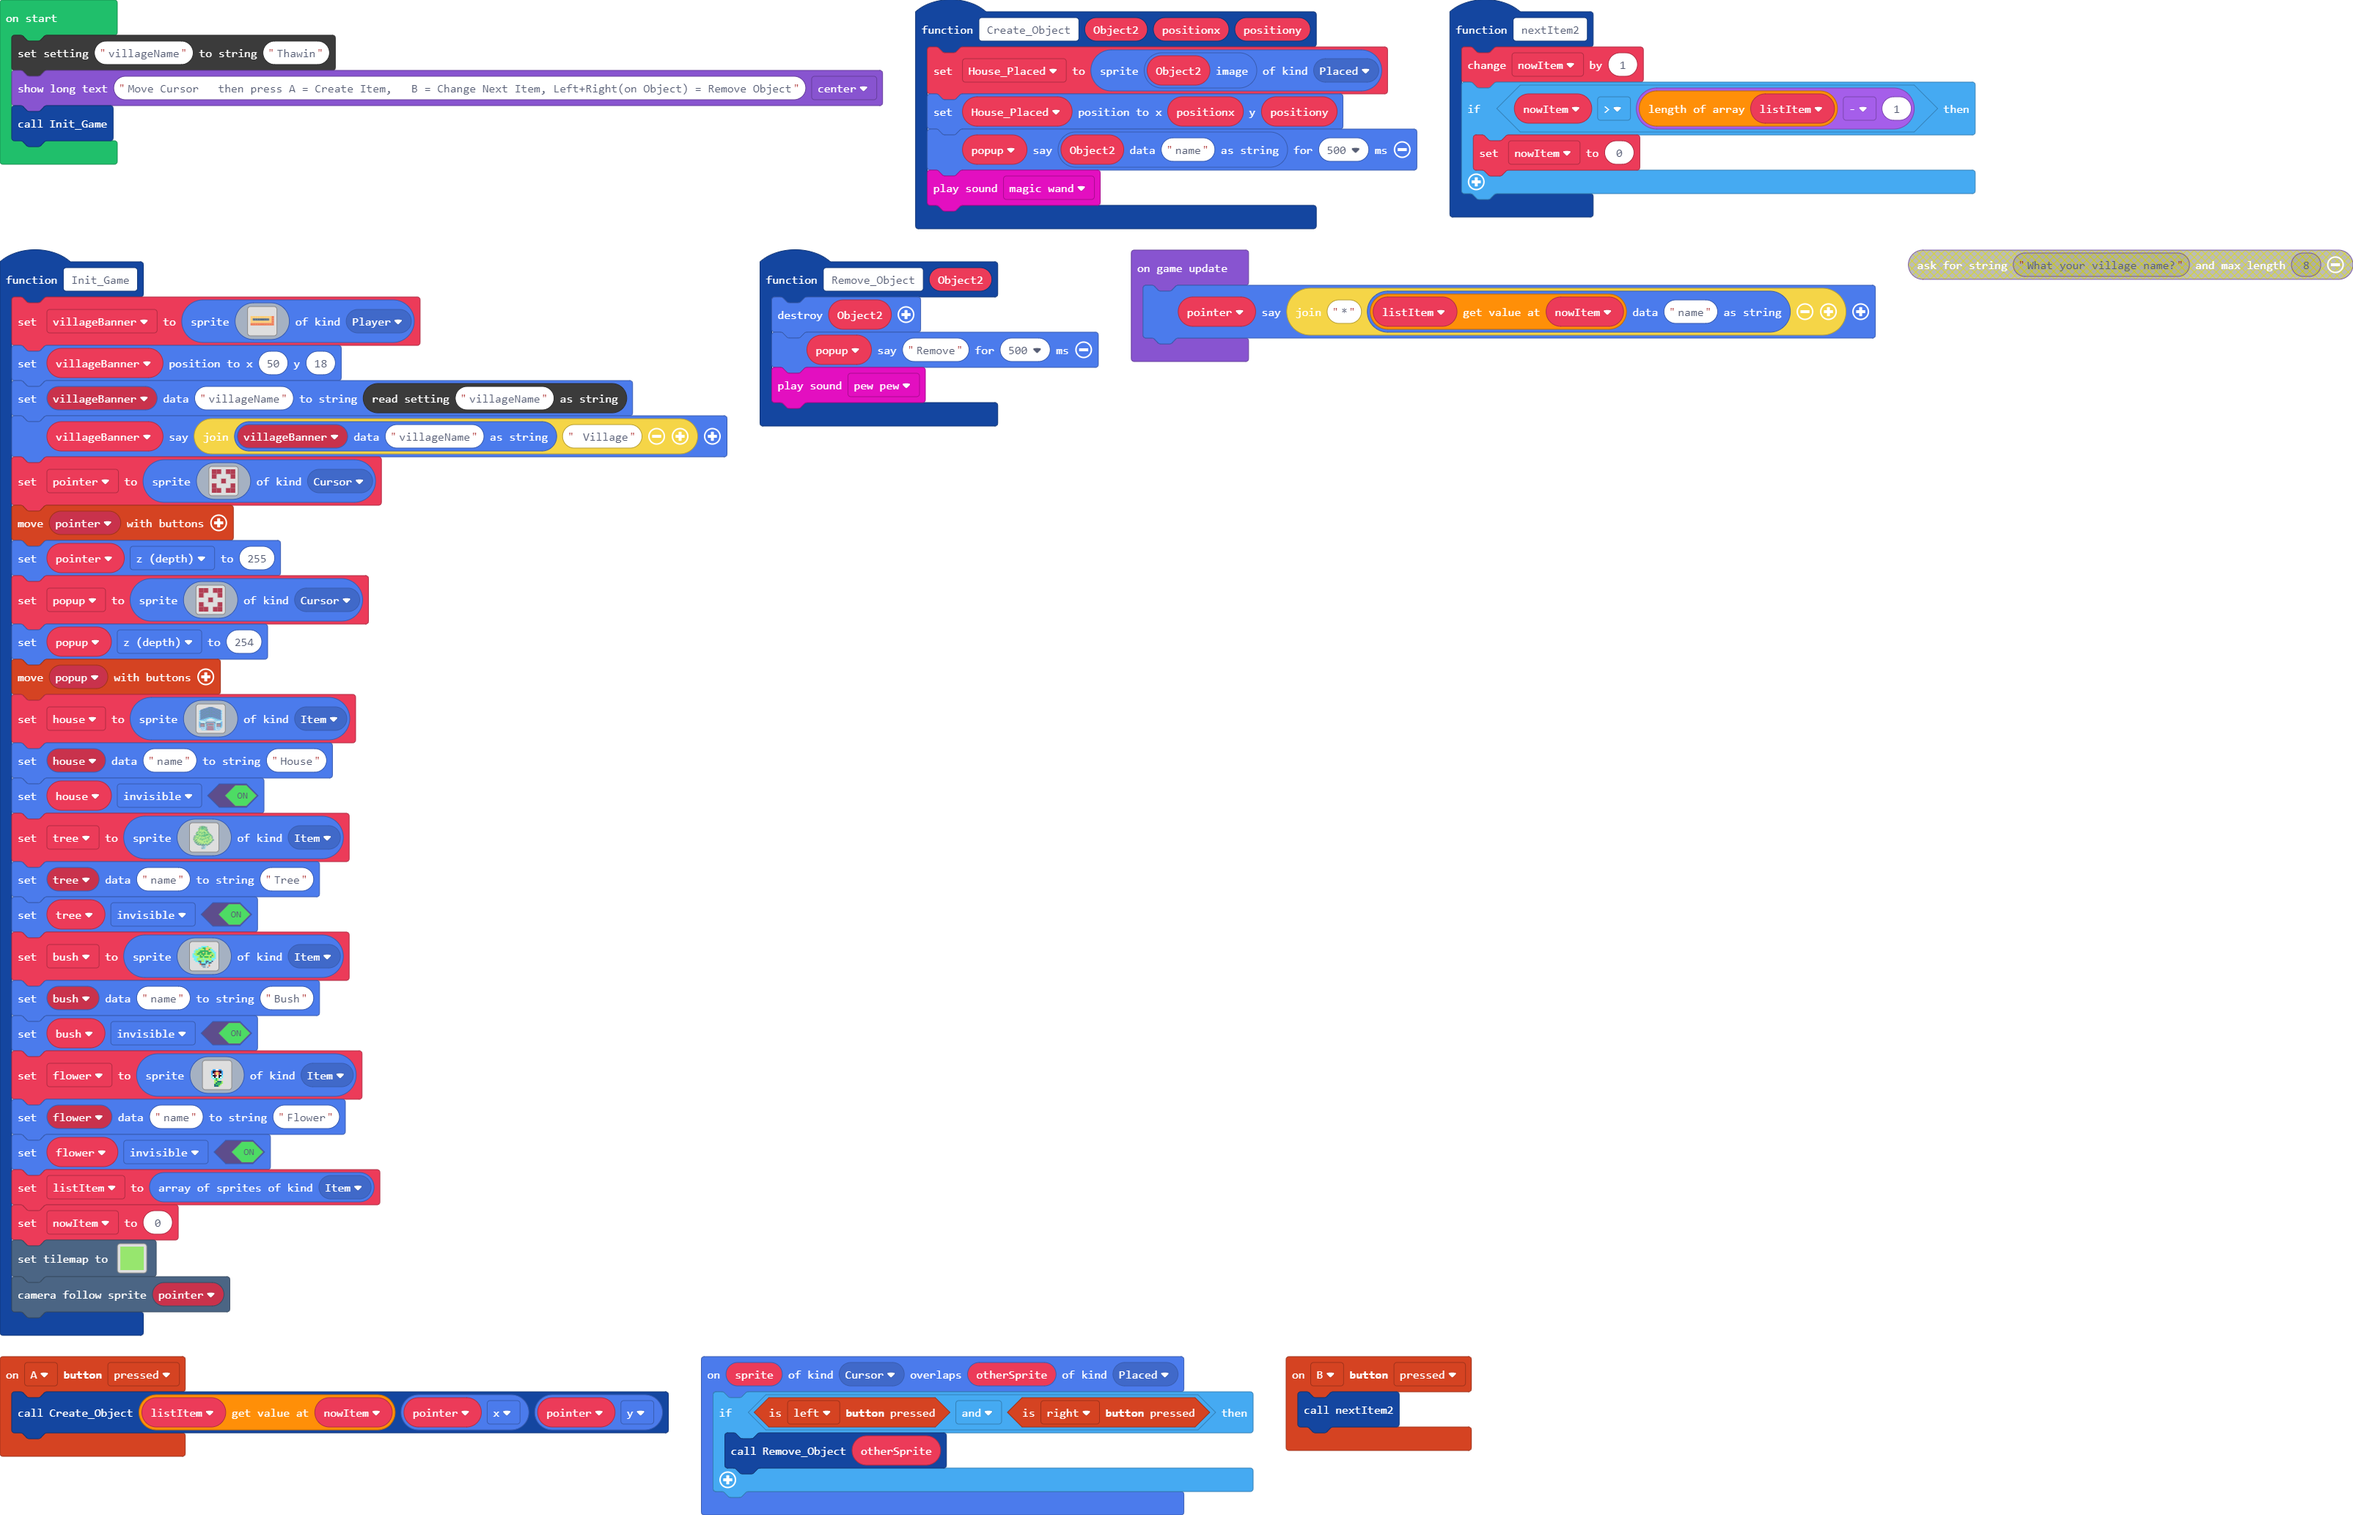
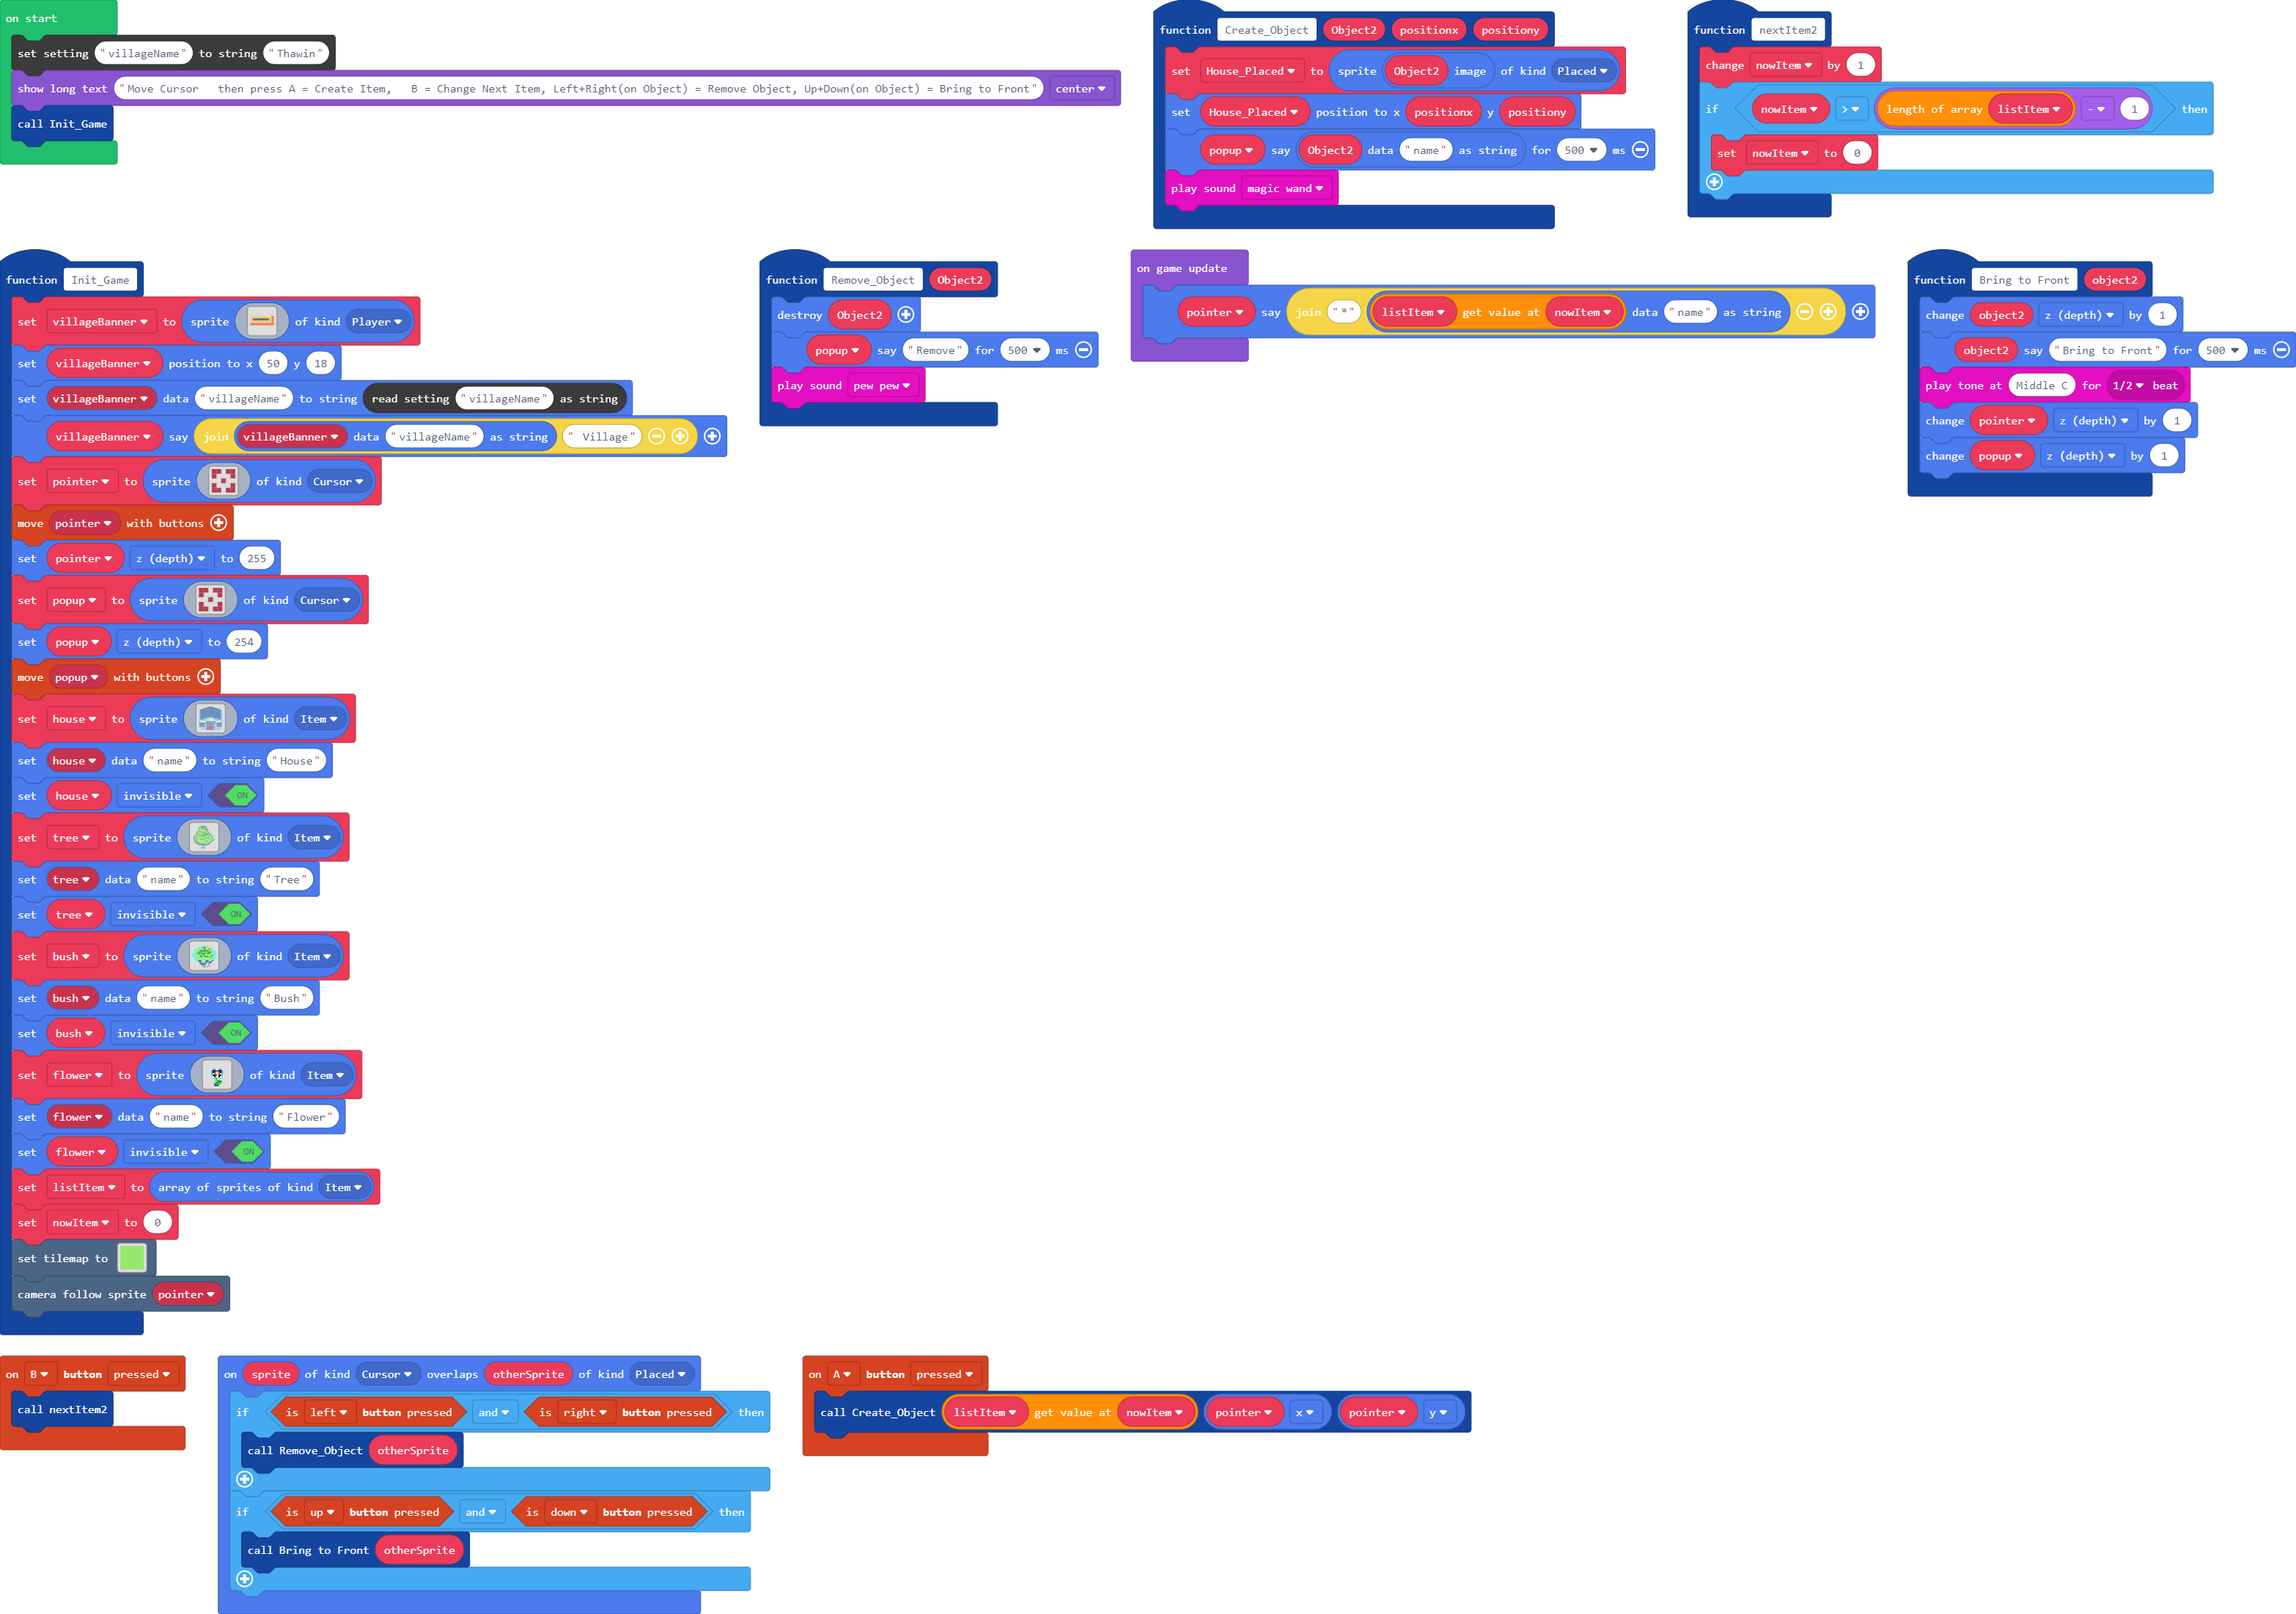
We have Bring to Front by Up + Down button

Changed region(s): [[0.0, 0.0, 1.0, 1.0]]

diff --git a/main.ts b/main.ts
@@ -62,6 +62,13 @@ function nextItem2 () {
         nowItem = 0
     }
 }
+function Bring_to_Front (object2: Sprite) {
+    object2.z += 1
+    object2.say("Bring to Front", 500)
+    music.playTone(262, music.beat(BeatFraction.Half))
+    pointer.z += 1
+    popup.z += 1
+}
 function Init_Game () {
     villageBanner = sprites.create(img`
 5 5 5 5 5 5 5 5 5 4 
@@ -269,19 +276,22 @@ sprites.onOverlap(SpriteKind.Cursor, SpriteKind.Placed, function (sprite, otherS
     if (controller.left.isPressed() && controller.right.isPressed()) {
         Remove_Object(otherSprite)
     }
+    if (controller.up.isPressed() && controller.down.isPressed()) {
+        Bring_to_Front(otherSprite)
+    }
 })
 let flower: Sprite = null
 let bush: Sprite = null
 let tree: Sprite = null
 let house: Sprite = null
-let pointer: Sprite = null
 let villageBanner: Sprite = null
+let pointer: Sprite = null
 let listItem: Sprite[] = []
 let nowItem = 0
 let popup: Sprite = null
 let House_Placed: Sprite = null
 blockSettings.writeString("villageName", "Thawin")
-game.showLongText("Move Cursor   then press A = Create Item,   B = Change Next Item, Left+Right(on Object) = Remove Object", DialogLayout.Center)
+game.showLongText("Move Cursor   then press A = Create Item,   B = Change Next Item, Left+Right(on Object) = Remove Object, Up+Down(on Object) = Bring to Front", DialogLayout.Center)
 Init_Game()
 game.onUpdate(function () {
     pointer.say("*" + sprites.readDataString(listItem[nowItem], "name"))
